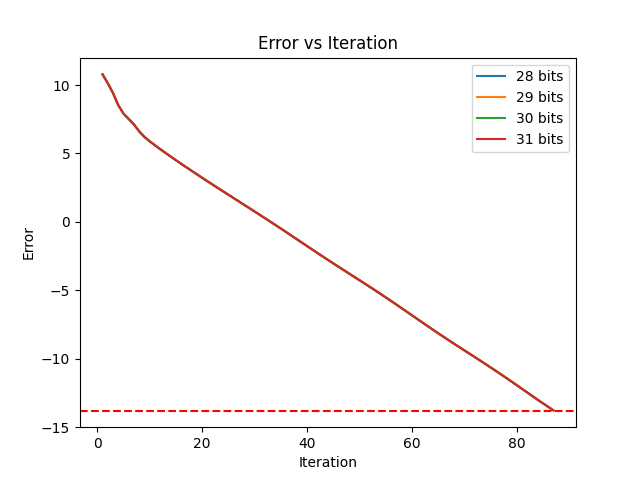
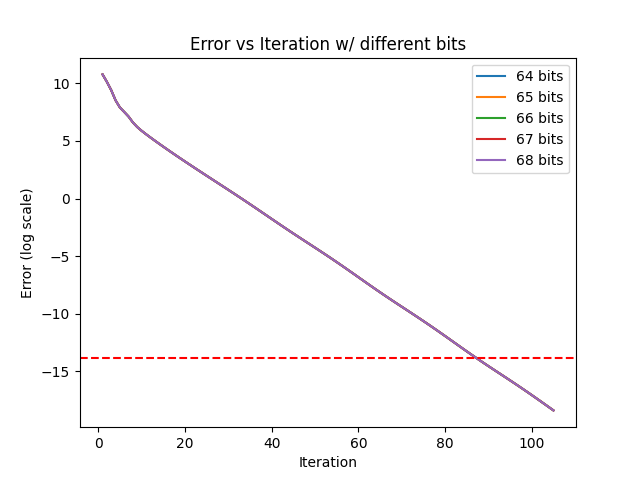
Refactor iteration method and output file handling in main.py

diff --git a/SW_simulation/util.py b/SW_simulation/util.py
@@ -50,7 +50,7 @@ def write_xnew(x, iteration, output):
             f.write('\n'.join('{:5.4f}'.format(val) for val in x))
             f.write('\n')
 
-def plot_error_vs_iteration(A, b, x0, max_iter = 50, argu = '-g'):
+def plot_error_vs_iteration(A, b, x0, max_iter = 50, argu = '-g', limit = 16):
     n = len(b)
     x = x0
     x_new = np.zeros(n)
@@ -59,13 +59,13 @@ def plot_error_vs_iteration(A, b, x0, max_iter = 50, argu = '-g'):
     error_list = []
     iteration_list = []
     #call gauss_seidel function to get the error and iteration number
-    for limit in range(28, 32):
+    for limit in range(limit, limit+5):
         while iteration < max_iter:
-            if argu == '-g':
+            if argu == 'g':
                 x_new, iteration, error = gs.gauss_seidel(A, b, x, iteration, limit)
-            elif argu == '-j':
+            elif argu == 'j':
                 x_new, iteration, error = jb.jocobi(A, b, x, iteration)
-            if error < 1e-6:
+            if error < 1e-8:
                 break
             error_list.append(error)
             iteration_list.append(iteration)
@@ -78,13 +78,14 @@ def plot_error_vs_iteration(A, b, x0, max_iter = 50, argu = '-g'):
     # show a horizontal line at y = -6
     plt.axhline(y=np.log(1e-6), color='r', linestyle='--')
     plt.xlabel('Iteration')
-    plt.ylabel('Error')
-    plt.title('Error vs Iteration')
+    plt.ylabel('Error (log scale)')
+    plt.title('Error vs Iteration w/ different bits')
     plt.savefig('output/error_vs_iteration.png')  # save the figure to the output folder
     plt.close()  # close the figure
     return x, iteration, error
 
 def write_result(filename, final_x, final_iter, final_error):
+    filename = './output/' + filename
     with open(filename, 'w') as f:
         f.write('Final x:\n')
         f.write('\n'.join('{:5.4f}'.format(val) for val in final_x))

diff --git a/SW_simulation/main.py b/SW_simulation/main.py
@@ -3,18 +3,33 @@ import numpy as np
 import matplotlib.pyplot as plt
 import sys
 import util
+import argparse
 
 if __name__ == '__main__':
-    # argument would ask the iteration is using gauss seidel or jocobian with "-g" or "-j"
-    argu = sys.argv[1]
-    # argument would also define the name of the output file
-    output = sys.argv[2]
+    # create a parser object
+    parser = argparse.ArgumentParser(description='Process some integers.')
+
+    # add arguments to the parser object
+    parser.add_argument('-method', type=str, help='The iteration method, "g" for gauss seidel or "j" for jocobi')
+    parser.add_argument('-output', type=str, help='The name of the output file')
+    parser.add_argument('-max_iteration', type=int, help='The maximum number of iterations')
+    parser.add_argument('-bit', type=int, help='The number of bits used in fixed point')
+
+    # parse the arguments
+    args = parser.parse_args()
+
+    # get the values of the arguments
+    method = args.method
+    output = args.output
+    max_iter = args.max_iteration
+    bit = args.bit
+    
     # read input from A.dat and B.dat
     A, b = util.read_input('./inputs/A.dat', './inputs/B.dat')
     x0 = np.zeros(len(b))
     #x0 = b/dialgonal of A
     for i in range(len(b)):
         x0[i] = b[i] / A[i, i]
-    final_x, final_iter, final_error = util.plot_error_vs_iteration(A, b, x0, max_iter=1000, argu=argu)
+    final_x, final_iter, final_error = util.plot_error_vs_iteration(A, b, x0, max_iter, method, bit)
     #write the final solution x, iteration number, and error to output file
     util.write_result(output, final_x, final_iter, final_error)

diff --git a/SW_simulation/gaussian_seidel.py b/SW_simulation/gaussian_seidel.py
@@ -11,7 +11,7 @@ def gauss_seidel(A, b, x, iteration, limit):
     for i in range(n):
         sum1 = np.dot(A[i, :i], x_new[:i])
         sum2 = np.dot(A[i, i + 1:], x[i + 1:])
-        x_new[i] = util.fixed_point((b[i] - sum1 - sum2) / A[i, i], 16, limit)
+        x_new[i] = util.fixed_point((b[i] - sum1 - sum2) / A[i, i], 15, limit-15)
     #error = (sumation of sumation of Aij * xi - bi)^2
     error = np.linalg.norm(np.dot(A, x_new) - b)
     
